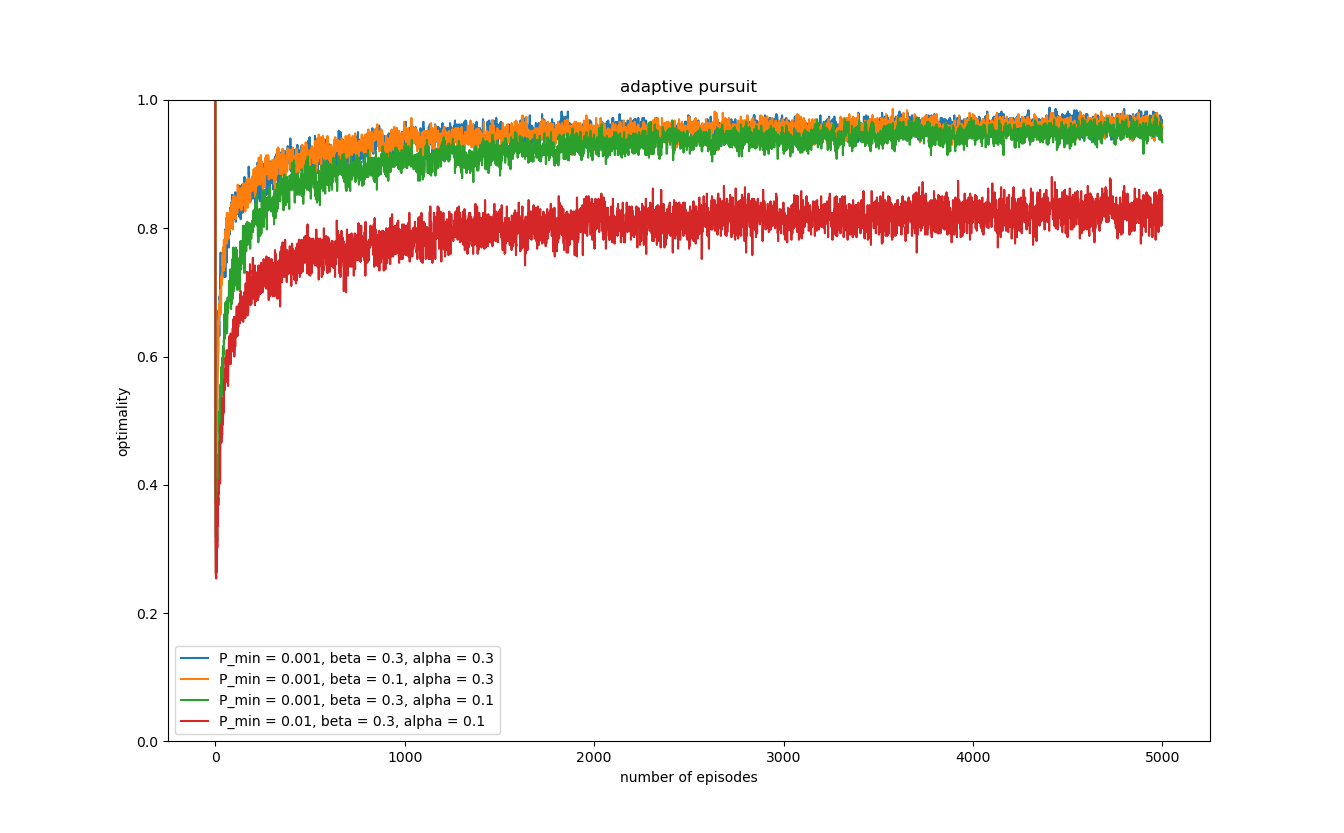
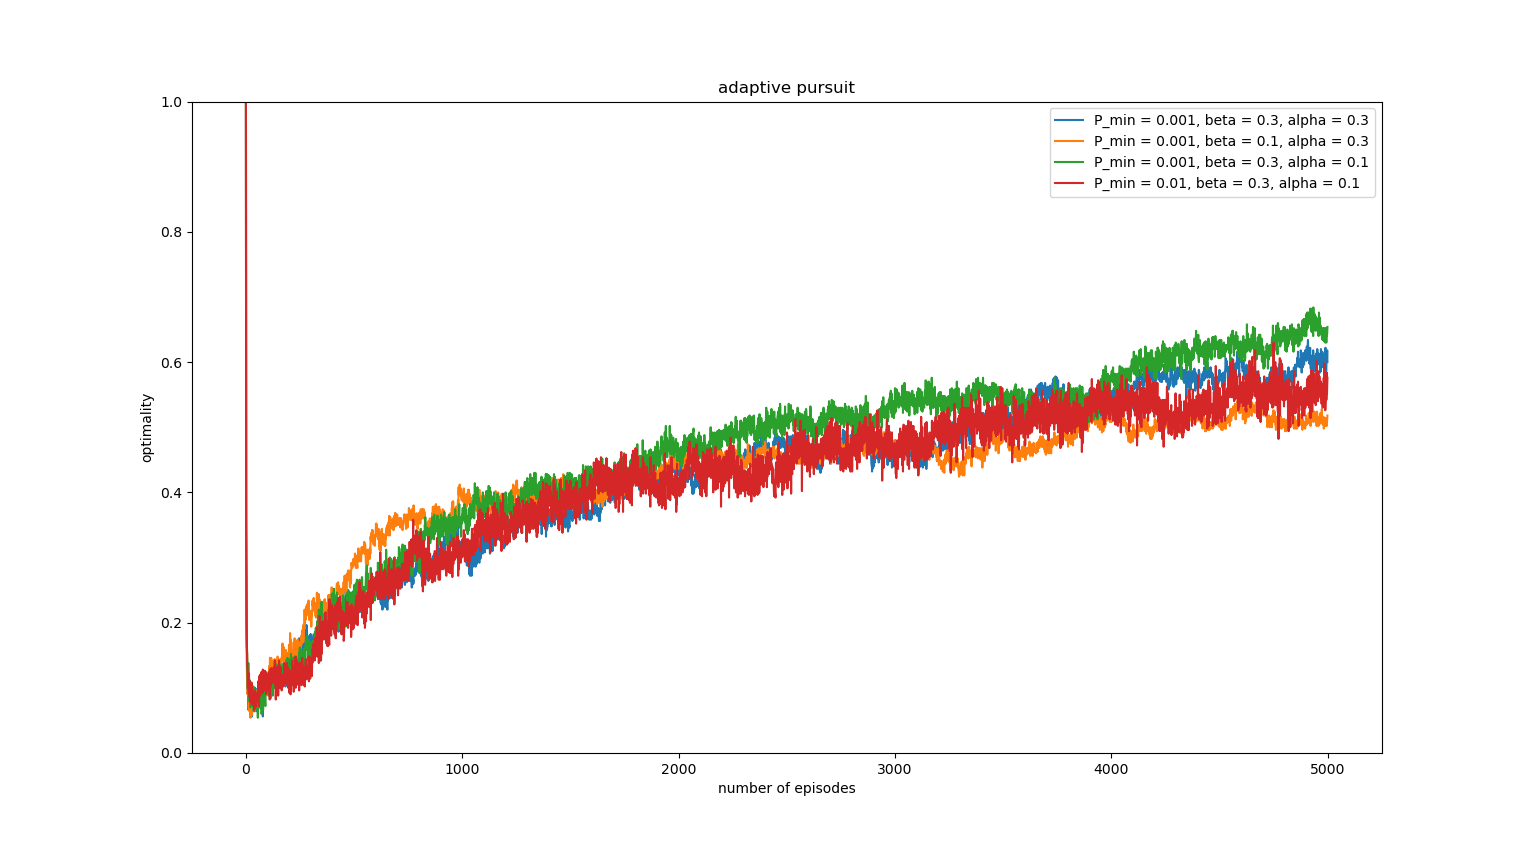
update

diff --git a/src/mab4.py b/src/mab4.py
@@ -203,7 +203,6 @@ def mab_pursuit(P_MIN, BETA, ALPHA):
         arm_list = np.array(arm_list)
 
         
-
         for t in range(EPISODES):
 
             # add the noise
@@ -218,6 +217,8 @@ def mab_pursuit(P_MIN, BETA, ALPHA):
             #####################################################
 
             # update the probability list
+            flag = True
+
             if t != 0:
                 P_MAX = 1 - (K - 1) * P_MIN
                 for i in range(K):
@@ -228,9 +229,14 @@ def mab_pursuit(P_MIN, BETA, ALPHA):
             else:
                 prob_list[pre_best_action_sa] = 1.0
 
+            cur_prob_sum = np.sum(prob_list)
+            if (abs(cur_prob_sum - 1.0)) > 1e-6:
+                flag = False
 
             # choose the action in this step
-            action_sa = np.random.choice(a = arm_list, p = prob_list)
+            action_sa = action_sa = np.random.randint(0, K)
+            if flag:
+                action_sa = np.random.choice(a = arm_list, p = prob_list)
             
             #####################################################
 
@@ -244,7 +250,13 @@ def mab_pursuit(P_MIN, BETA, ALPHA):
             if action_sa == best_action_sa:
                 best_action_freq_sa[r, t] = 1
             
-            pre_best_action_sa = best_action_sa
+            # greedy action of the previous step
+            list_max_sa = []
+            q_max_sa = np.max(q_a_sa)
+            for i in range(K):
+                if q_a_sa[i] == q_max_sa:
+                    list_max_sa.append(i)
+            pre_best_action_sa = np.random.choice(list_max_sa)
     
     # calculating
     ratio_o_t_sa = list(range(EPISODES))
@@ -256,6 +268,7 @@ def mab_pursuit(P_MIN, BETA, ALPHA):
         ratio_o_t_sa[t] = float(sum_o_sa) / float(TIMES)
     
     return ratio_o_t_sa
+
 
 
 fig, ax = plt.subplots()

diff --git a/src/mab_pursuit.py b/src/mab_pursuit.py
@@ -71,7 +71,13 @@ def mab_pursuit(P_MIN, BETA, ALPHA):
             if action_sa == best_action_sa:
                 best_action_freq_sa[r, t] = 1
             
-            pre_best_action_sa = best_action_sa
+            # greedy action of the previous step
+            list_max_sa = []
+            q_max_sa = np.max(q_a_sa)
+            for i in range(K):
+                if q_a_sa[i] == q_max_sa:
+                    list_max_sa.append(i)
+            pre_best_action_sa = np.random.choice(list_max_sa)
     
     # calculating
     ratio_o_t_sa = list(range(EPISODES))
